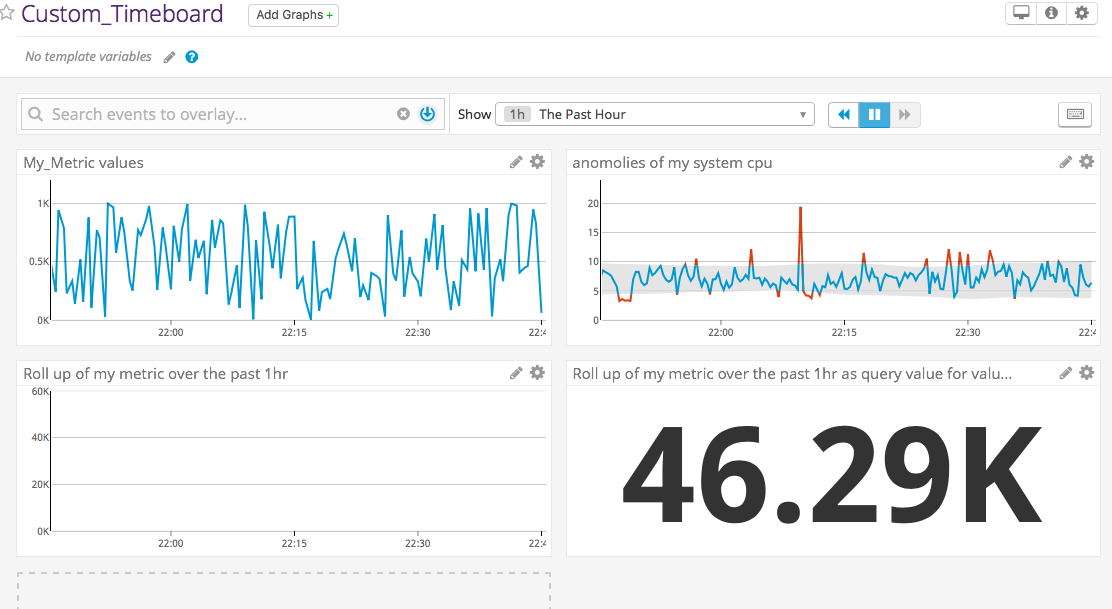
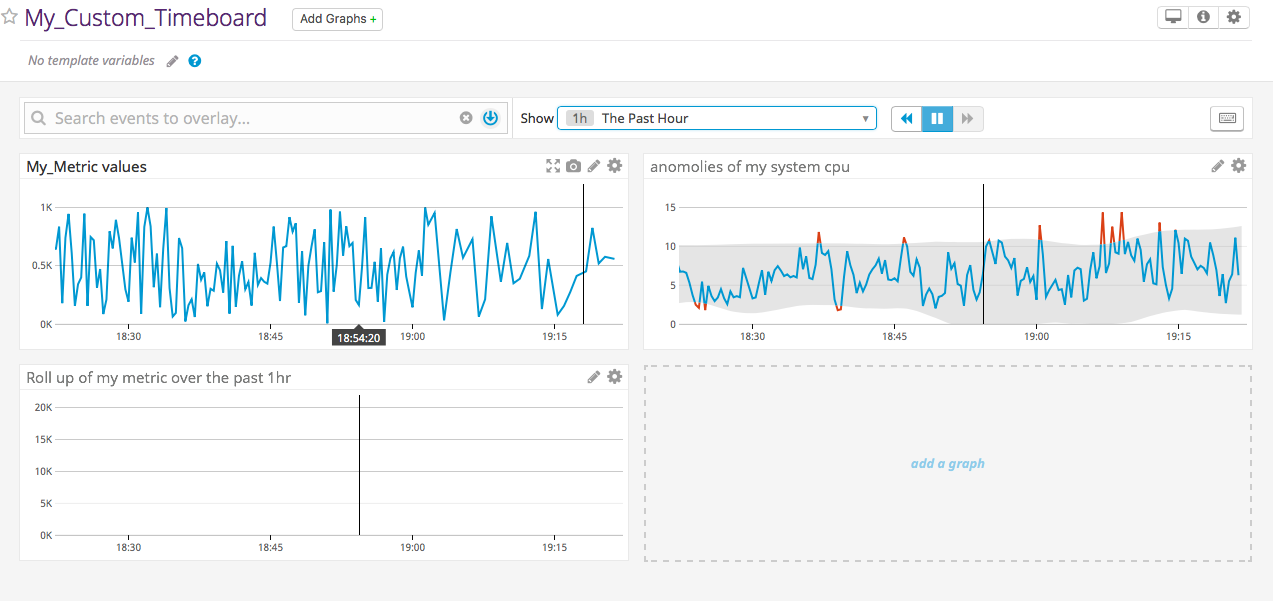
added screenshots

diff --git a/Timeboard.py b/Timeboard.py
@@ -9,7 +9,7 @@ initialize(**options)
 
 
 
-title = "Custom_Timeboard"
+title = "My_Custom_Timeboard"
 description = "My_Metric_timeboard"
 graphs = [{
     "definition": {
@@ -41,20 +41,9 @@ graphs = [{
     },
     "title": "Roll up of my metric over the past 1hr"
 },
-{
-          "definition": {
-          "events": [],
-          "requests": [
-                       {"q": "my_metric{host:Jorges-MacBook-Air.local}.rollup(sum, 3600)"}
-                       ],
-          "viz": "query_value"
-          },
-          "title": "Roll up of my metric over the past 1hr as query value for sake of visual"
-}
+
         
           ]
-
-
 
 read_only = True
 response = api.Timeboard.create(title=title,
